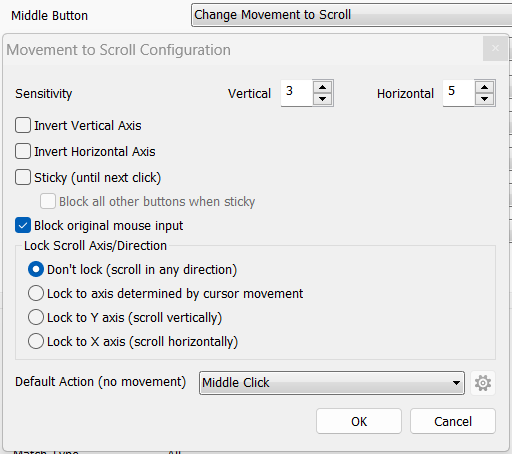
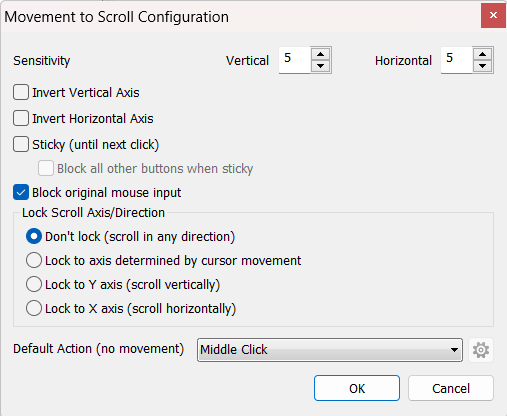
update screenshots and add  macos autoscroll code

diff --git a/README.md b/README.md
@@ -1,15 +1,8 @@
-# gameball-settings
+# Gameball Settings
 
-My personal gameball mouse settings with a focus on scrolling for programming.
+My personal gameball mouse settings with a focus on scrolling.
 
-I use windows to set default mouse settings and x-mouse to enhance my gameball settings.
-
-## Windows Defaults
-
-![motion](img/default-motion.png)
-
-- Pointer motion set to the middle as a default
-- **Enhance pointer precision** is enabled
+I use Windows/macOS to set default mouse settings and X-Mouse/Hammerspoon to enable middle button click-and-hold autoscroll.
 
 ## GameBall Settings
 
@@ -27,13 +20,41 @@ I use windows to set default mouse settings and x-mouse to enhance my gameball s
 - (10) **RGB** - 3rd blue color (light blue), **Polling Rate** - **1000Hz** (default)
 - (1) + (9) **Unwanted ball motion** - enabled (default)
 
-## X-Mouse Settings
+## Windows
+
+### System Defaults
+
+![motion](img/default-windows-settings.png)
+
+![motion](img/default-windows-settings-2.png)
+
+- Pointer motion set to the middle as a default
+- **Enhance pointer precision** is enabled
+- All other settings are left as-is
+
+### X-Mouse Settings
 
 ![gameball settings](img/x-mouse-settings.png)
 
-- The middle button is used to scroll by clicking and holding the button down while using the ball to move
-- If the middle button is clicked with no movement, it will default to the normal middle button click behavior
-- Horizontal and vertical scroll values are set to **3** and **5** respectively
+- Settings that enable middle button click-and-hold autoscroll
+- Vertical and horizontal values are set to **5** as a default
+
+## MacOS
+
+### System Defaults
+
+![motion](img/default-macbook-settings.png)
+
+- Tracking speed set to the fastest to match default trackball movement speed
+- All other settings are left as-is
+
+### Hammerspoon Settings
+
+[Autoscroll code](src/init.lua)
+
+- Code that enables middle button click-and-hold autoscroll
+- `reverseVerticalScrollDirection` set to `true` because macOS default scroll direction is opposite
+- Copy and paste the code into the `init.lua` file and restart Hammerspoon
 
 ## License
 
